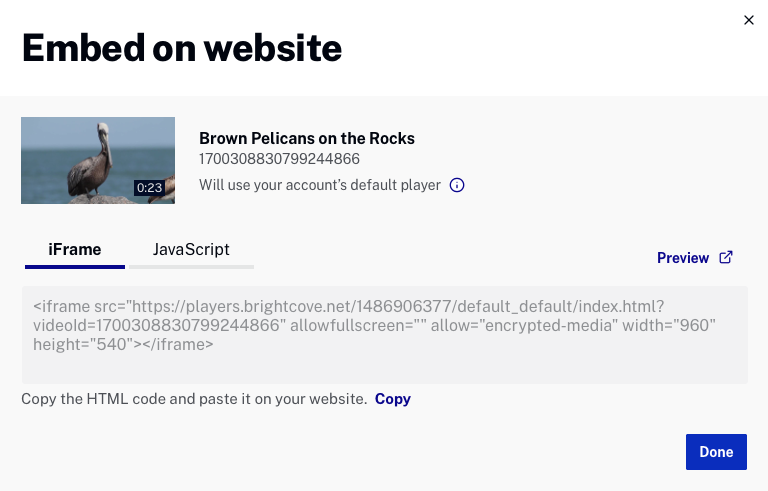
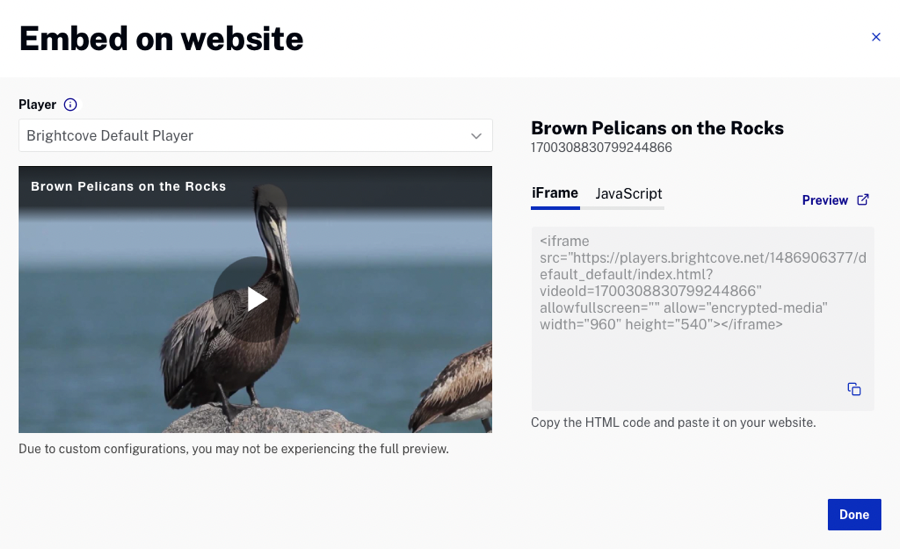
update player publishing process

diff --git a/_site/media/embedding-videos-web.html b/_site/media/embedding-videos-web.html
@@ -309,13 +309,17 @@ function doGTranslate(lang_pair) {if(lang_pair.value)lang_pair=lang_pair.value;i
         <aside class="bcls-aside bcls-aside--information">Note: Videos that are deactivated cannot be published. For information, see <a href="https://studio.support.brightcove.com/get-started/basics/video-cloud-basics-activating-and-deactivating-video.html">Activating and Deactivating Videos</a>.</aside>
         <figure class="bcls-figure"><img class="bcls-image--no-border" alt="" src="/assets/images/media/embed-web/publish-embed-dialog.png" /></figure>
       </li>
+      <li>Select a player to use. Note that the preview will update to display the player that was selected.</li>
       <li>(Optional) Click the <strong>Preview</strong> link to preview the video in another browser tab.</li>
       <li>Select the type of publishing code to copy by clicking <strong>Standard</strong> or <strong>Advanced</strong>.
         <ul>
-          <li><strong>iFrame  - Recommended for most cases.</strong> This type places the player inside an <code translate="No">&lt;iframe&gt;</code> tag.</li>
+          <li><strong>iFrame  - Recommended for most cases.</strong> This type places the player inside an <code translate="No">&lt;iframe&gt;</code> tag.
+            <aside class="bcls-aside bcls-aside--information language-editable">Note: If the selected player has been configured with the <a href="https://studio.support.brightcove.com/campaign/general/creating-campaign-enabled-player.html">Campaign plugin</a>, the iFrame code will not be displayed as the JavaScript code must be used.</aside>
+          </li>
           <li><strong>JavaScript</strong> - Allows the player to exist in the the HTML page directly, not in an iframe. This offers developers the benefits of ease of accessing the player and associated properties and events.</li>
         </ul>
-        For more information on the types of embed code, see <a href="https://studio.support.brightcove.com/publish/choosing-correct-embed-code.html">Choosing the Correct Embed&nbsp;Code</a>.</li>
+        <p>For more information on the types of embed code, see <a href="https://studio.support.brightcove.com/publish/choosing-correct-embed-code.html">Choosing the Correct Embed&nbsp;Code</a>.</p>
+      </li>
       <li>Copy the embed code. When finished, click <span class="button-blue">Done</span>.</li>
     </ol>
   </section>

diff --git a/media/embedding-videos-web.html b/media/embedding-videos-web.html
@@ -22,13 +22,17 @@ layout: staging
         <aside class="bcls-aside bcls-aside--information">Note: Videos that are deactivated cannot be published. For information, see <a href="https://studio.support.brightcove.com/get-started/basics/video-cloud-basics-activating-and-deactivating-video.html">Activating and Deactivating Videos</a>.</aside>
         <figure class="bcls-figure"><img class="bcls-image--no-border" alt="" src="/assets/images/media/embed-web/publish-embed-dialog.png" /></figure>
       </li>
+      <li>Select a player to use. Note that the preview will update to display the player that was selected.</li>
       <li>(Optional) Click the <strong>Preview</strong> link to preview the video in another browser tab.</li>
       <li>Select the type of publishing code to copy by clicking <strong>Standard</strong> or <strong>Advanced</strong>.
         <ul>
-          <li><strong>iFrame  - Recommended for most cases.</strong> This type places the player inside an <code translate="No">&lt;iframe&gt;</code> tag.</li>
+          <li><strong>iFrame  - Recommended for most cases.</strong> This type places the player inside an <code translate="No">&lt;iframe&gt;</code> tag.
+            <aside class="bcls-aside bcls-aside--information language-editable">Note: If the selected player has been configured with the <a href="https://studio.support.brightcove.com/campaign/general/creating-campaign-enabled-player.html">Campaign plugin</a>, the iFrame code will not be displayed as the JavaScript code must be used.</aside>
+          </li>
           <li><strong>JavaScript</strong> - Allows the player to exist in the the HTML page directly, not in an iframe. This offers developers the benefits of ease of accessing the player and associated properties and events.</li>
         </ul>
-        For more information on the types of embed code, see <a href="https://studio.support.brightcove.com/publish/choosing-correct-embed-code.html">Choosing the Correct Embed&nbsp;Code</a>.</li>
+        <p>For more information on the types of embed code, see <a href="https://studio.support.brightcove.com/publish/choosing-correct-embed-code.html">Choosing the Correct Embed&nbsp;Code</a>.</p>
+      </li>
       <li>Copy the embed code. When finished, click <span class="button-blue">Done</span>.</li>
     </ol>
   </section>

diff --git a/_site/analytics/reviewing-analytics.html b/_site/analytics/reviewing-analytics.html
@@ -361,7 +361,7 @@ function doGTranslate(lang_pair) {if(lang_pair.value)lang_pair=lang_pair.value;i
 
 <hr>
 <div class="last-updated">
-  Page last updated on 13 Apr 2022
+  Page last updated on 21 Jun 2022
 </div>
 
 
